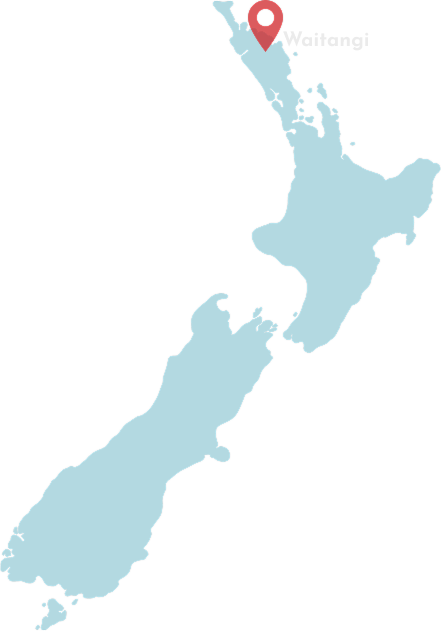
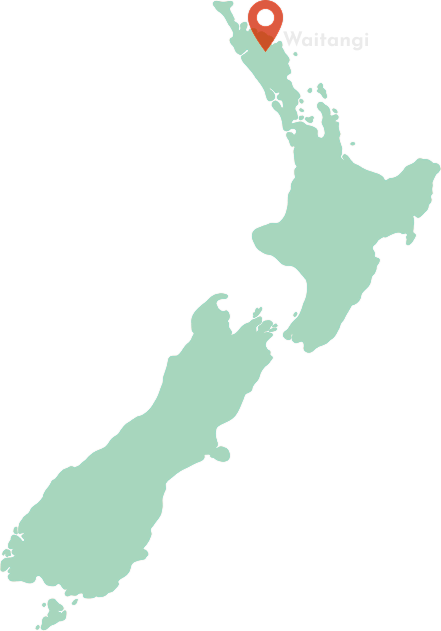
Finished History.html feedback round 1 changes. Changes involved the positioning and colour of the nz map images

Changed region(s): [[0.0, 0.0, 1.0, 1.0]]

diff --git a/History.html b/History.html
@@ -66,7 +66,7 @@
                         <div class="Timeline-Item" id="Voyage">
                             <p class="Timeline-Date active-date" id="VoyageDate">1250 - 1300 (AD)</p>
                             <button onclick="change('VoyageButton', 'VoyageDate'); slide('left');" class="TimelineButton active-button" id="VoyageButton">
-                                Maori Voyage from Hawaii to New Zealand
+                                Maori Voyage from Hawaiki to New Zealand
                             </button>
                         </div>
                         <div class="Timeline-Item" id="Treaty">

diff --git a/CSS/Stylesheet.css b/CSS/Stylesheet.css
@@ -337,8 +337,10 @@ footer {
     text-align: center;
 }
 
-#History-img {
-    margin-right: 0;
+#History-Image {
+    width: 441px;
+    height: 631px;
+    margin: auto 0;
 }
 
 #History-Content-Title {
